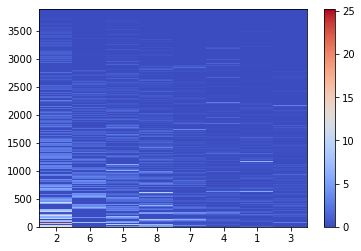
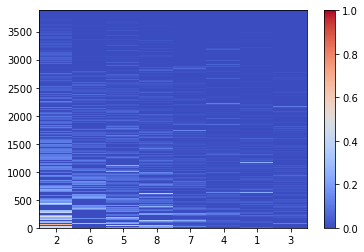
24/04/20

diff --git a/scripts/pan-genome_analysis.py b/scripts/pan-genome_analysis.py
@@ -185,6 +185,9 @@ for i_gr, gr in enumerate(group_order):
         data_vis_greater[i_gr][i_ge] = pvs_greater[gr][ge]
         data_vis_less[i_gr][i_ge] = pvs_less[gr][ge]
 
+data_vis_greater = data_vis_greater/np.amax(data_vis_greater)
+data_vis_less = data_vis_less/np.amax(data_vis_less)
+
 sum_rows = np.sum(data_vis_greater,axis=0)
 sum_cols = np.sum(data_vis_greater,axis=1)
 sort_rows = np.argsort(sum_rows)
@@ -237,38 +240,11 @@ plt.show()
 
 
 
-t = np.random.rand(5,5)
-labels =['a', 'b','c','d','e']
-ticks = [0.5,1.5,2.5,3.5,4.5]
-fig, ax = plt.subplots()
+# t = np.random.rand(5,5)
+# labels =['a', 'b','c','d','e']
+# ticks = [0.5,1.5,2.5,3.5,4.5]
+# fig, ax = plt.subplots()
 
-hp = ax.pcolormesh(t, cmap = 'coolwarm')
-ax.set_xticks(ticks)
-ax.set_xticklabels(labels)
-#Heatmap of genes more present in certain group
-# fig1, ax1 = plt.subplots(1, figsize= (10,10))
-
-# ax1 = sns.heatmap(data_vis_greater[sort_cols].T[sort_rows], cmap = 'coolwarm', linewidths=0.1, linecolor='w')
-
-# xlab = list(np.array([0,1,2,3,4,5,6,7])[sort_cols])
-# ax1.set_xticks([0.5,1.5,2.5,3.5,4.5,5.5,6.5,7.5], xlab)
-# ax1.set_xticklabels(xlab)
-
-# ax1.set_title('Genes with greater presence in certain group\n(-log10(p-value))')
-
-
-# #heatmap of genes less present compared to other groups
-# fig2, ax2 = plt.subplots(1, figsize= (10,10))
-# ax2 = sns.heatmap(data_vis_less[l_sort_cols].T[l_sort_rows], cmap = 'coolwarm', linewidths=0.1, linecolor='w')
-
-# l_xlab = list(np.array([0,1,2,3,4,5,6,7])[l_sort_cols])
-# ax2.set_xticks([0.5,1.5,2.5,3.5,4.5,5.5,6.5,7.5], l_xlab)
-# ax2.set_xticklabels(l_xlab)
-
-# ax2.set_title('Genes with less presence in certain group\n(-log10(p-value))')
-
-# fig1.tight_layout()
-# fig1.savefig(os.path.join(p.parents[0], 'figures', today + '_heatmap_greater_genes.png'), dpi=300, bbox_inches='tight')
-
-# fig2.tight_layout()
-# fig2.savefig(os.path.join(p.parents[0], 'figures', today + '_heatmap_less_genes.png'), dpi=300, bbox_inches='tight')
+# hp = ax.pcolormesh(t, cmap = 'coolwarm')
+# ax.set_xticks(ticks)
+# ax.set_xticklabels(labels)
